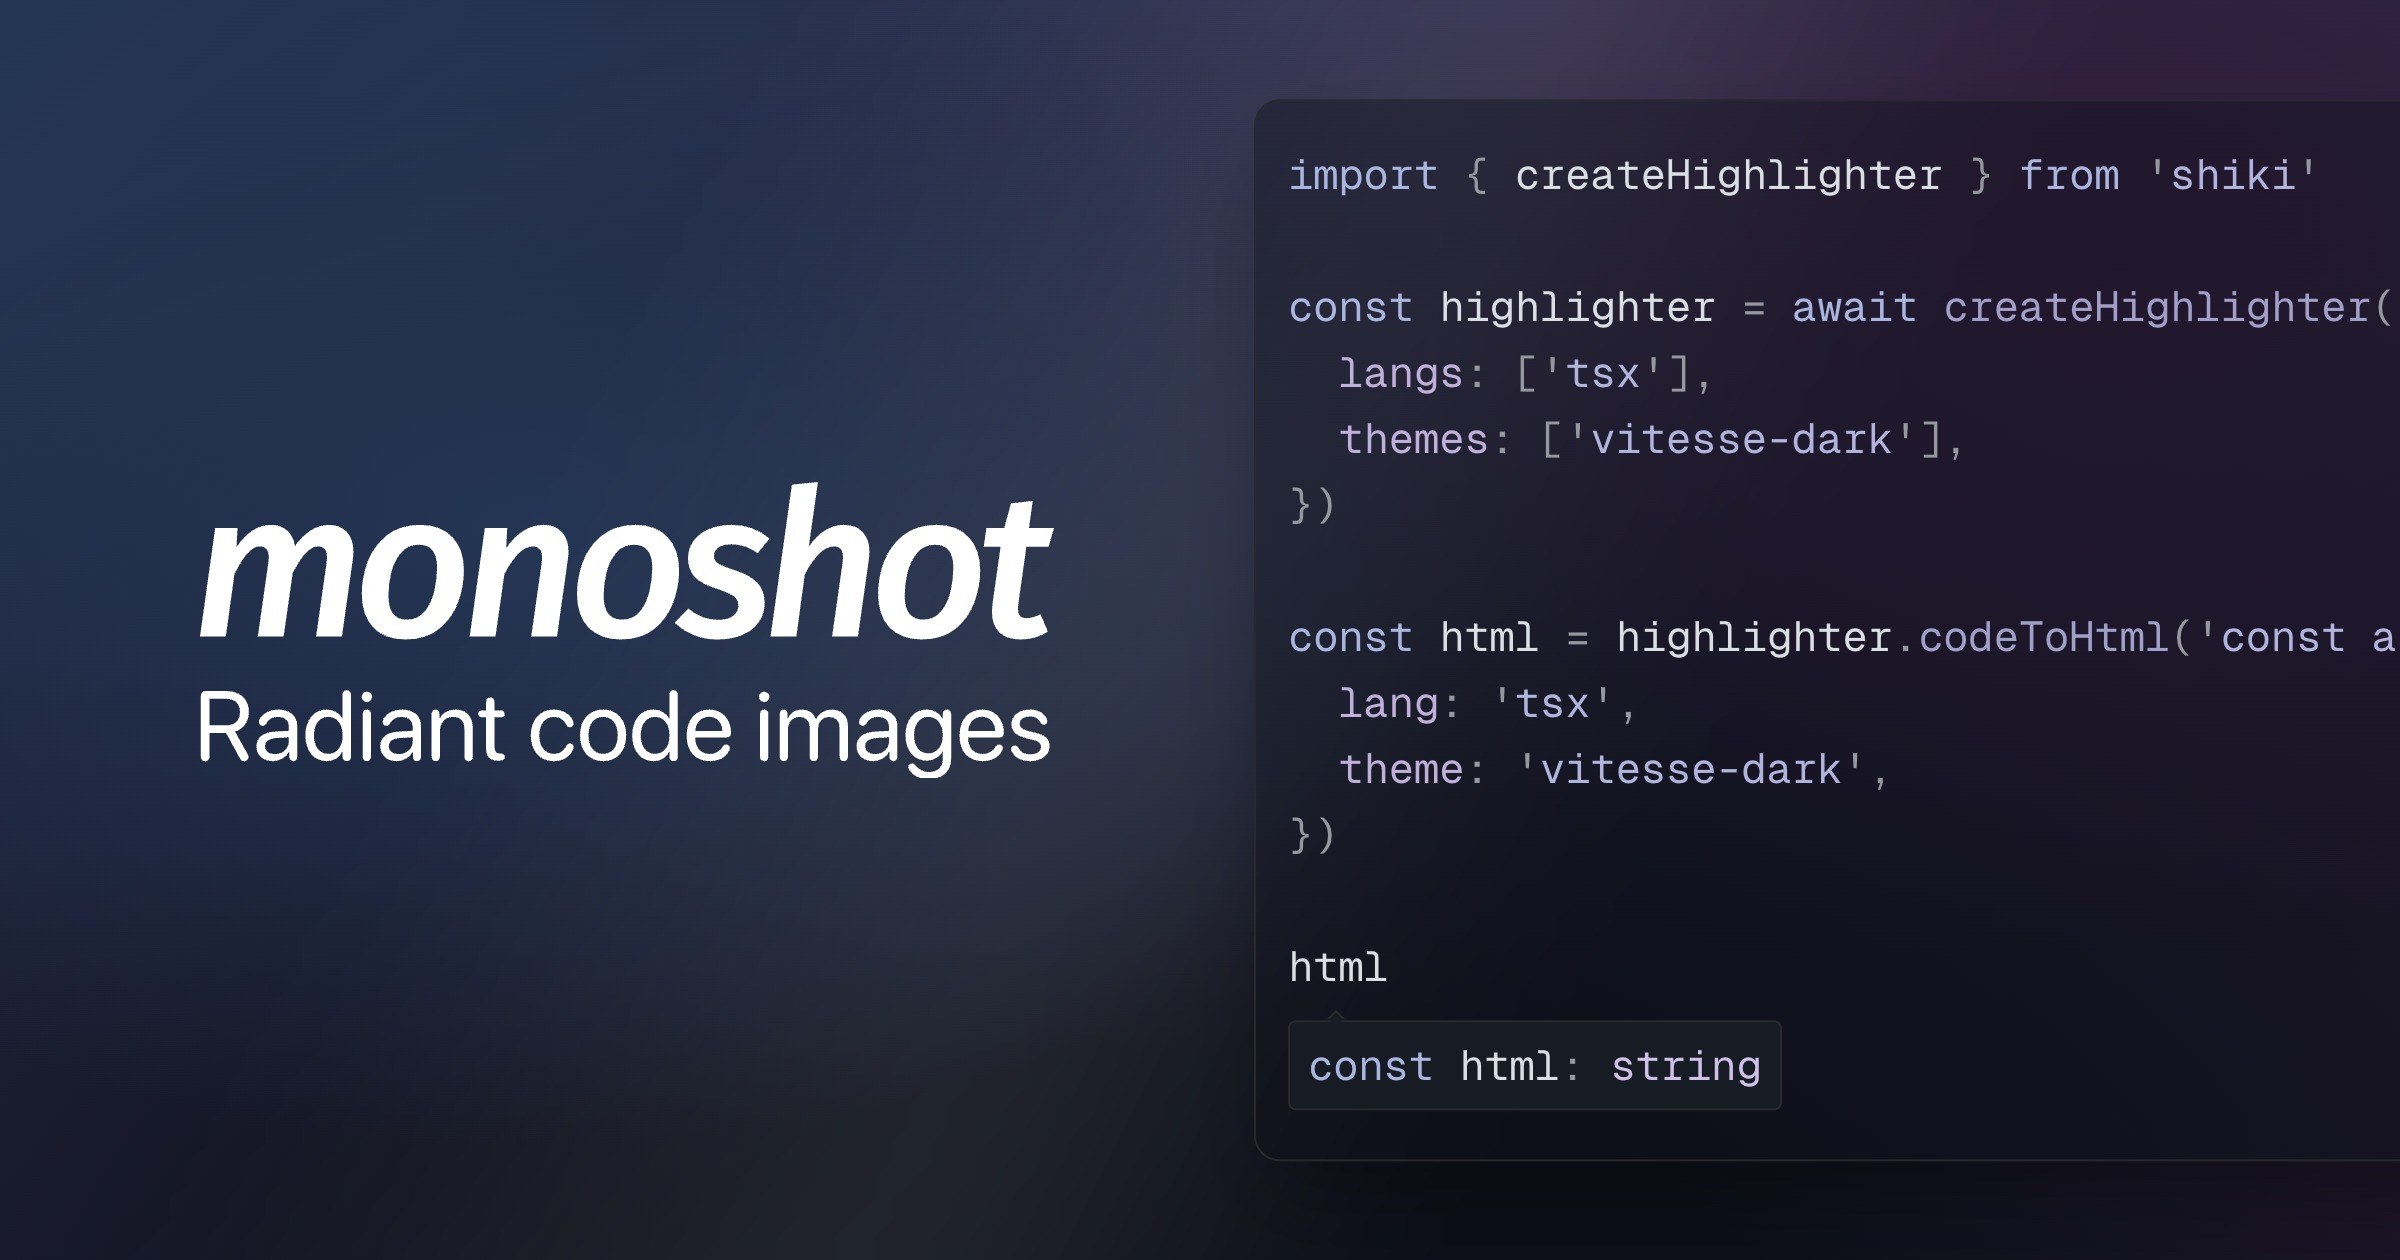
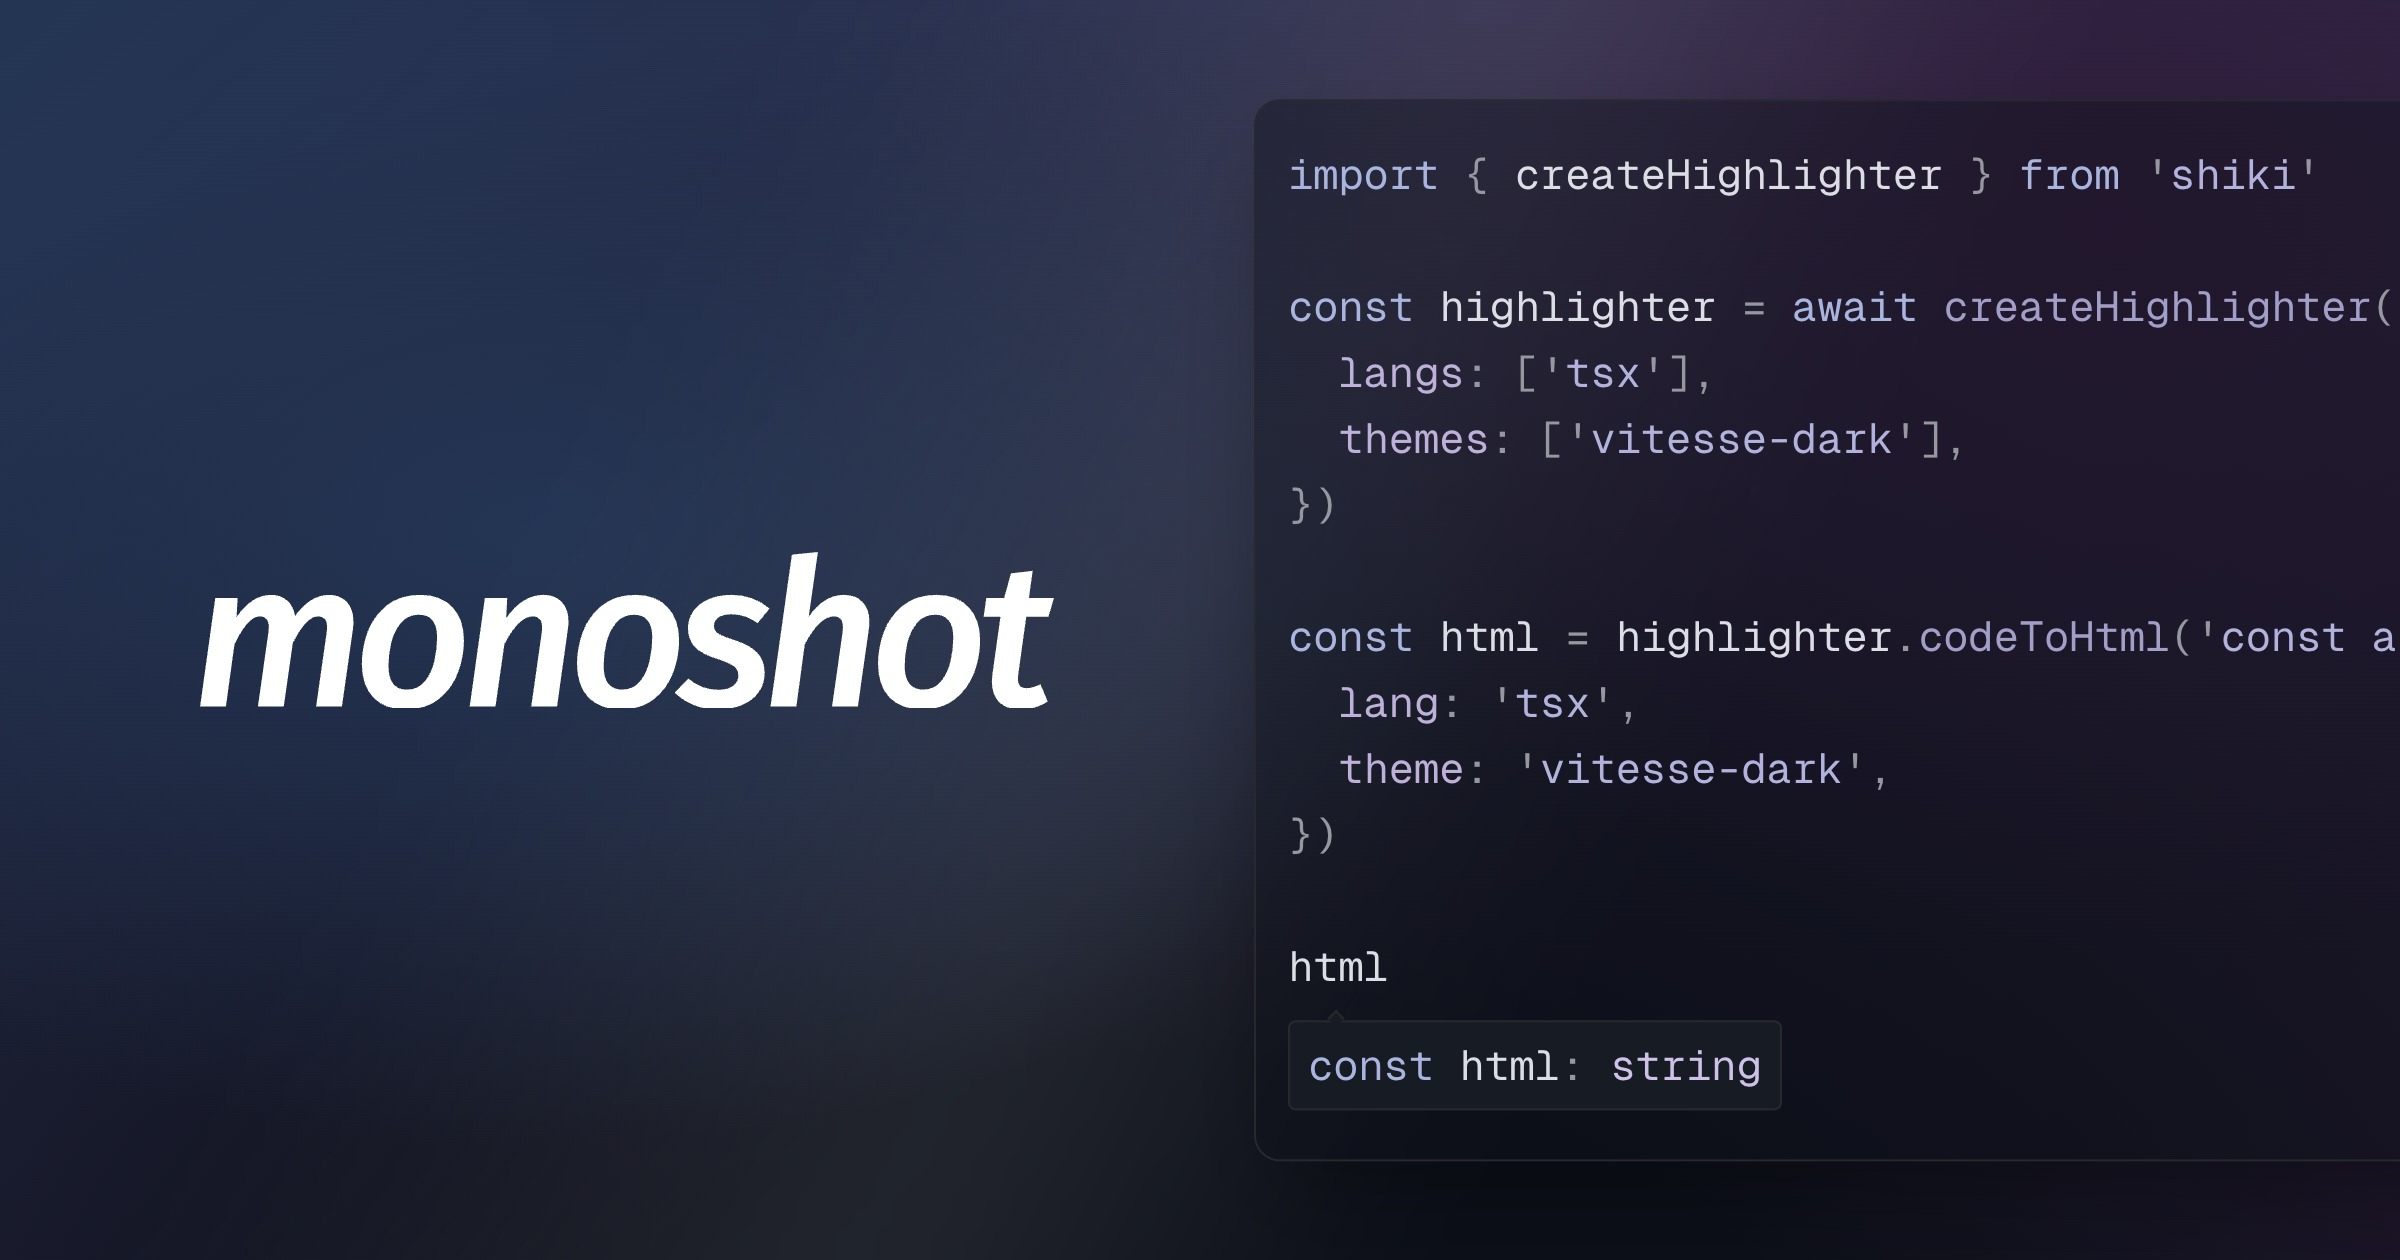
feat: update monoshot branding

Changed region(s): [[0.0625, 0.3714, 0.4375, 0.619]]

diff --git a/app/src/routes/__root.tsx b/app/src/routes/__root.tsx
@@ -10,7 +10,8 @@ import { Tooltip } from '#/ui/Tooltip.js'
 import { motion } from '../theme/tokens.stylex.js'
 
 const title = 'monoshot'
-const description = 'Render code images with type-aware annotations.'
+const description =
+  'Create code images with syntax highlighting, customizable themes, and type-aware annotations.'
 /** Dimensions and path of the generated social card. */
 const card = { height: '630', path: '/og.jpg', width: '1200' } as const
 
@@ -42,6 +43,18 @@ export const Route = createRootRoute({
     scripts: [{ children: schemeScript }],
     links: [
       { rel: 'canonical', href: Site.origin },
+      {
+        rel: 'icon',
+        href: '/icon-light.svg',
+        media: '(prefers-color-scheme: light)',
+        type: 'image/svg+xml',
+      },
+      {
+        rel: 'icon',
+        href: '/icon-dark.svg',
+        media: '(prefers-color-scheme: dark)',
+        type: 'image/svg+xml',
+      },
       { rel: 'stylesheet', href: appCss },
       // StyleX dev CSS is served by the unplugin's dev middleware; the built
       // CSS is appended to the styles.css asset, so prod needs no extra link.

diff --git a/app/src/routes/index.tsx b/app/src/routes/index.tsx
@@ -69,7 +69,16 @@ const styles = stylex.create({
     justifyContent: 'space-between',
     paddingInline: 20,
   },
-  wordmark: { fontFamily: font.mono },
+  wordmark: {
+    backgroundColor: 'currentColor',
+    blockSize: 26,
+    display: 'block',
+    inlineSize: 101,
+    maskImage: 'url("/logo-light.svg")',
+    maskPosition: 'center',
+    maskRepeat: 'no-repeat',
+    maskSize: 'contain',
+  },
   actions: { alignItems: 'center', display: 'flex', gap: 12 },
   // Beside the menu that started the export, quiet enough to read as a note on
   // the action rather than a failure of the page.
@@ -880,7 +889,7 @@ function Page() {
       )}
 
       <header {...stylex.props(styles.header)}>
-        <span {...stylex.props(styles.wordmark, text.heading16)}>monoshot</span>
+        <span aria-label="Monoshot" role="img" {...stylex.props(styles.wordmark)} />
         {/* Inert rather than `aria-hidden`: the copy carries a title field and
             the frame's handles, which stay tabbable while a capture runs. */}
         <div inert ref={stage} {...stylex.props(styles.offscreen)}>

diff --git a/app/scripts/og.ts b/app/scripts/og.ts
@@ -22,10 +22,11 @@ const require = createRequire(import.meta.url)
 const font = await fs.readFile(
   require.resolve('@fontsource-variable/geist-mono/files/geist-mono-latin-wght-normal.woff2'),
 )
-// Remove the wordmark background so the card backdrop remains visible.
-const wordmark = (
-  await fs.readFile(path.join(import.meta.dirname, 'og-wordmark.svg'), 'utf8')
-).replace(/<rect[^>]*fill="black"[^>]*\/>/, '')
+// Use the white wordmark variant against the dark card backdrop.
+const wordmark = await fs.readFile(
+  path.join(import.meta.dirname, '../public/logo-dark.svg'),
+  'utf8',
+)
 
 const frame = Frame.create()
 const rendered = await frame.render({

diff --git a/app/src/lib/site.ts b/app/src/lib/site.ts
@@ -3,9 +3,7 @@
  *
  * Set `VITE_SITE_URL` for preview deployments or custom domains.
  */
-export const origin = (
-  import.meta.env.VITE_SITE_URL ?? 'https://monoshot.broken-thunder-fb8b.workers.dev'
-).replace(/\/$/, '')
+export const origin = (import.meta.env.VITE_SITE_URL ?? 'https://monoshot.dev').replace(/\/$/, '')
 
 /** An absolute URL for a path this deployment serves. */
 export function url(path: string): string {

diff --git a/src/Cli.ts b/src/Cli.ts
@@ -14,7 +14,7 @@ import * as Theme from './Theme.js'
 import { version } from './version.js'
 
 /** Default deployment for generated share links. */
-const site = 'https://monoshot.broken-thunder-fb8b.workers.dev'
+const site = 'https://monoshot.dev'
 
 /**
  * Default language when neither an option nor a file extension specifies one.

diff --git a/README.md b/README.md
@@ -1,1 +1,107 @@
-# monoshot
+<p align="center">
+  <picture>
+    <source media="(prefers-color-scheme: dark)" srcset="./app/public/logo-dark.svg">
+    <source media="(prefers-color-scheme: light)" srcset="./app/public/logo-light.svg">
+    <img alt="Monoshot" src="./app/public/logo-light.svg" width="360">
+  </picture>
+</p>
+
+<p align="center">Beautiful code images.</p>
+
+<p align="center">
+  <a href="#overview">Overview</a> ·
+  <a href="#quick-prompt">Quick Prompt</a> ·
+  <a href="#skills--mcp">Skills &amp; MCP</a> ·
+  <a href="#api">API</a> ·
+  <a href="#cli">CLI</a> ·
+  <a href="#license">License</a>
+</p>
+
+## Overview
+
+Monoshot creates code images with type-aware editing, annotations, multiple languages, themes, exports, shareable links, and more.
+
+Try it: [monoshot.dev](https://monoshot.dev)
+
+## Quick Prompt
+
+Prompt your agent:
+
+```text
+Use monoshot.dev to create a code image for a TypeScript snippet that validates an API response. Use the Tempo theme and include type annotations.
+```
+
+## Skills & MCP
+
+Add Monoshot as an agent skill:
+
+```text
+Run `npx monoshot skills add`, then use Monoshot to create a code image for the selected code.
+```
+
+Or register the MCP server:
+
+```text
+Run `npx monoshot mcp add`, then use the Monoshot MCP tools to create a code image for the selected code.
+```
+
+## API
+
+Base URL: [monoshot.dev/api](https://monoshot.dev/api)
+
+```sh
+curl https://monoshot.dev/api/image \
+  --header 'content-type: application/json' \
+  --data '{"code":"const answer: number = 42","lang":"typescript","theme":"vitesse-dark"}' \
+  --output code.png
+```
+
+### Reference
+
+[OpenAPI schema](https://monoshot.dev/api/openapi.json)
+
+## CLI
+
+### Install
+
+Install Monoshot globally:
+
+```sh
+npm i -g monoshot
+pnpm add -g monoshot
+bun add -g monoshot
+```
+
+### Usage
+
+```sh
+monoshot render -c 'console.log("Hello, world!")' -o hello.png
+monoshot render -c 'console.log("Hello, world!")' -o hello.svg
+monoshot share -c 'console.log("Hello, world!")' -t vitesse-light
+```
+
+### Reference
+
+```text
+monoshot — Create code images with syntax highlighting, customizable themes,
+and type-aware annotations.
+
+Usage: monoshot <command>
+
+Commands:
+  open    Open the snippet in a browser.
+  render  Render a snippet to an image.
+  share   Build a link that opens the snippet in a browser.
+  themes  List every theme.
+
+Integrations:
+  completions  Generate shell completion script
+  mcp          Register as MCP server (add, doctor)
+  skills       Sync skill files to agents (add, list)
+```
+
+Run `monoshot <command> --help` for command options and examples.
+
+## License
+
+[MIT](./LICENSE)

diff --git a/.changeset/brand-assets.md b/.changeset/brand-assets.md
@@ -1,0 +1,5 @@
+---
+'monoshot': patch
+---
+
+Updated Monoshot branding, documentation, and the default shared-link domain.
